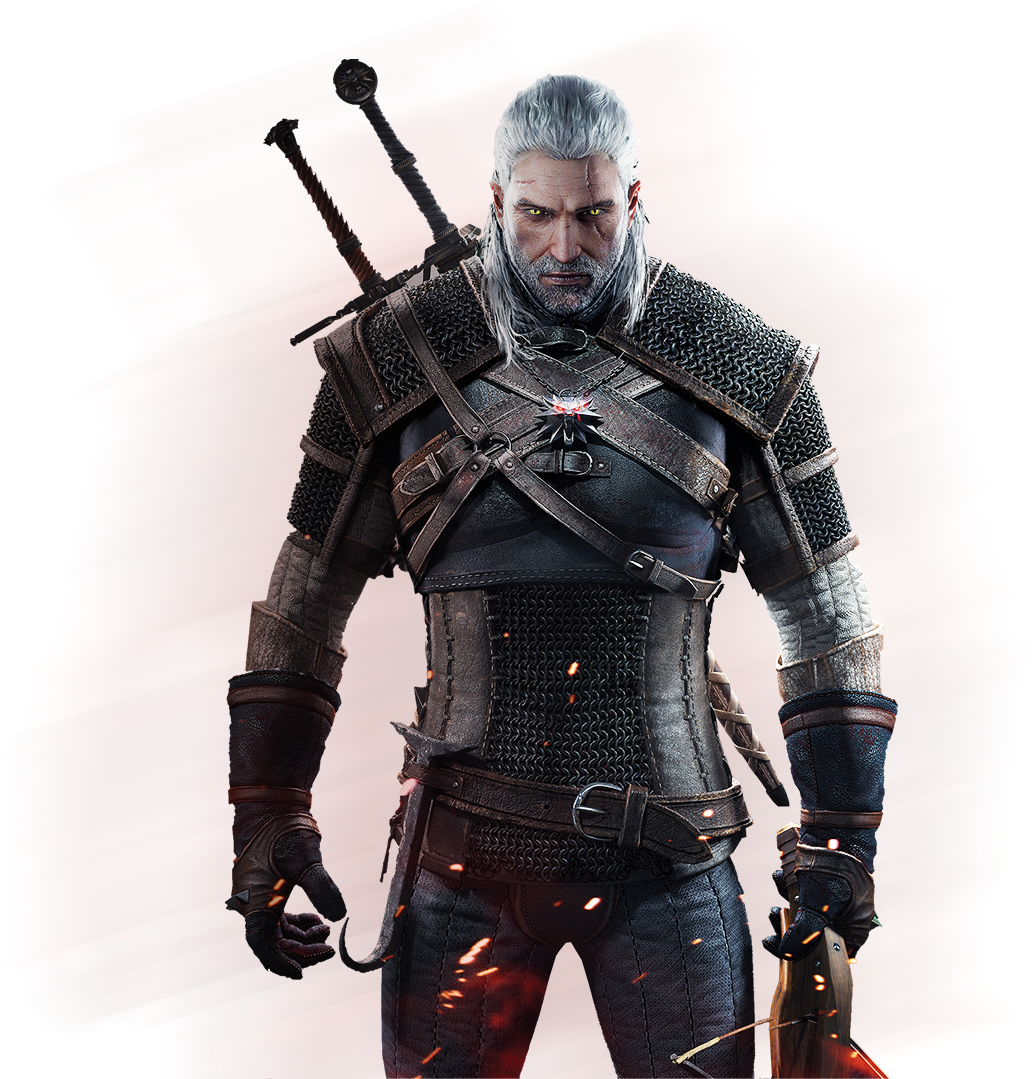
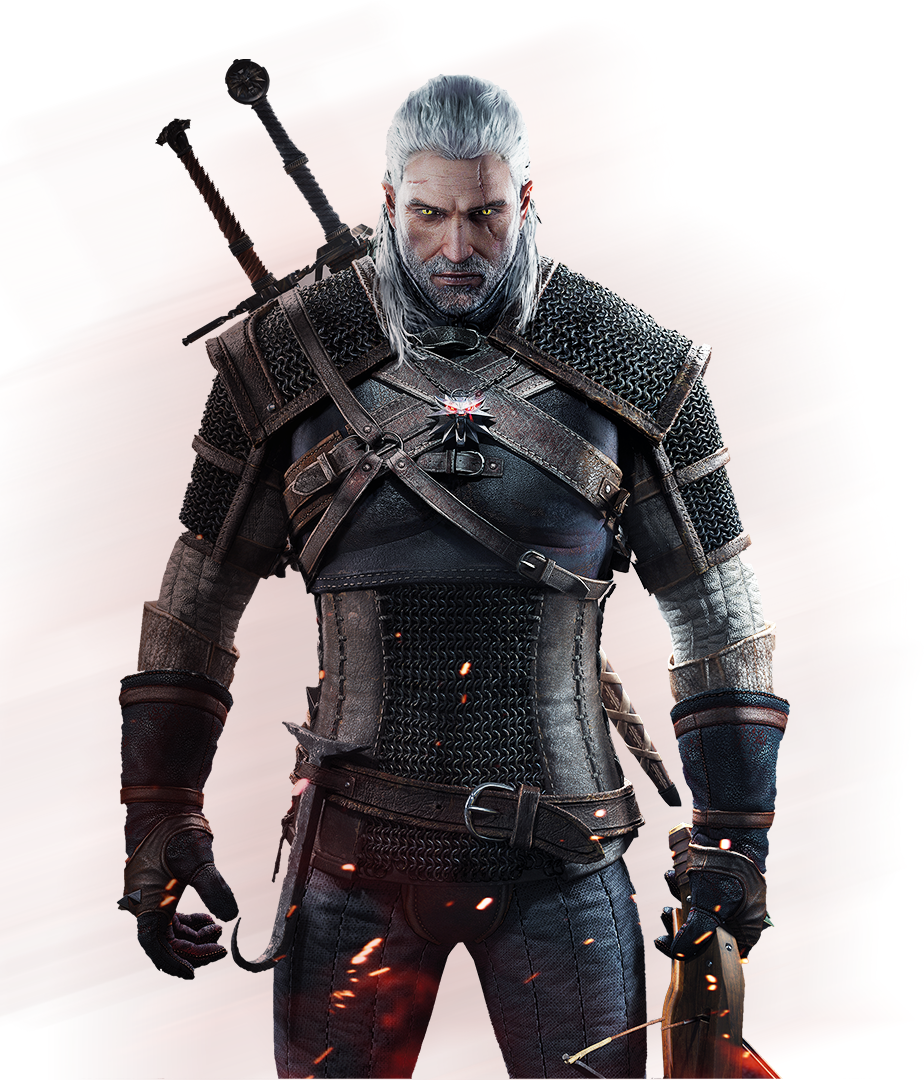
edit some styles

diff --git a/src/sass/components/promo.scss b/src/sass/components/promo.scss
@@ -12,8 +12,8 @@
     &-wrap {
       position: absolute;
       top: 0;
-      // left: -12%;
       left: 50%;
+
       width: 100%;
 
       transform: translateX(-50%);
@@ -52,38 +52,8 @@
         width: initial;
       }
 
-      @media screen and (min-width: 1024px) {
-        // left: 19%;
-      }
-
-      @media screen and (min-width: 1024px) and (height: 1366px) {
-        // left: -9%;
-      }
-
-      @media screen and (min-width: 1024px) and (height: 768px) {
-        // left: 12%;
-      }
-
-      @media screen and (min-width: 1200px) {
-        // left: 17%;
-      }
-
-      @media screen and (min-width: 1366px) {
-        top: 0;
-        // left: 19%;
-      }
-
-      @media screen and (min-width: 1366px) and (height: 1024px) {
-        // left: 11%;
-      }
-
-      @media screen and (min-width: 1440px) {
-        // left: 21%;
-      }
-
       @media screen and (min-width: 1920px) {
-        bottom: initial;
-        // left: 25px;
+        left: 596px;
       }
     }
   }
@@ -98,22 +68,6 @@
     text-align: center;
 
     transform: translateX(-50%);
-
-    @media screen and (min-width: 768px) {
-      bottom: 18%;
-    }
-
-    @media screen and (min-width: 812px) and (height: 375px) {
-      bottom: 13%;
-    }
-
-    @media screen and (min-width: 1024px) {
-      // bottom: 11%;
-    }
-
-    @media screen and (min-width: 1366px) {
-      bottom: 18%;
-    }
 
     @media screen and (min-width: 1920px) {
       top: 244px;
@@ -138,12 +92,16 @@
         font-size: 90px;
         font-size: 28vw;
 
-        @media screen and (max-width: 1023px) and (orientation: landscape) {
+        @media screen and (max-width: 992px) and (orientation: landscape) {
           font-size: 90px;
         }
 
         @media screen and (min-width: 768px) and (min-height: 1024px) {
           font-size: 170px;
+        }
+
+        @media screen and (min-width: 1024px) {
+          font-size: 208px;
         }
 
         @media screen and (min-width: 1024px) {
@@ -235,10 +193,6 @@
       letter-spacing: 4px;
       text-transform: uppercase;
       color: $primary-color;
-
-      @media screen and (min-width: 768px) {
-        // font-size: 24px;
-      }
 
       @media screen and (min-width: 1920px) {
         font-size: 40px;
@@ -345,6 +299,9 @@
     align-items: center;
 
     @media (orientation: landscape) {
+      padding-top: 10px;
+      padding-bottom: 10px;
+
       flex-flow: row;
       justify-content: space-between;
       align-items: center;
@@ -357,6 +314,10 @@
       flex-flow: row;
       justify-content: space-between;
       align-items: center;
+    }
+
+    @media screen and (min-width: 768px) and (orientation: landscape) {
+      padding-bottom: 10px;
     }
 
     @media (min-width: 1920px) {
@@ -373,7 +334,7 @@
       min-width: auto;
     }
 
-    @media (min-width: 1024px) {
+    @media (min-width: 1200px) {
       width: initial;
     }
   }
@@ -388,6 +349,10 @@
 
     @media (min-width: 768px) {
       font-size: 14px;
+    }
+
+    @media screen and (min-width: 768px) and (orientation: landscape) {
+      font-size: 10px;
     }
 
     @media (min-width: 1366px) {

diff --git a/src/index.html b/src/index.html
@@ -24,11 +24,7 @@
           <h2 class="promo__title visually-hidden">Promo section</h2>
 
           <div class="promo__image-wrap">
-            <img
-              src="./images/witcher-2.png"
-              alt=""
-              class="promo__image image"
-            />
+            <img src="./images/witcher.png" alt="" class="promo__image image" />
           </div>
 
           <div class="promo__content">
